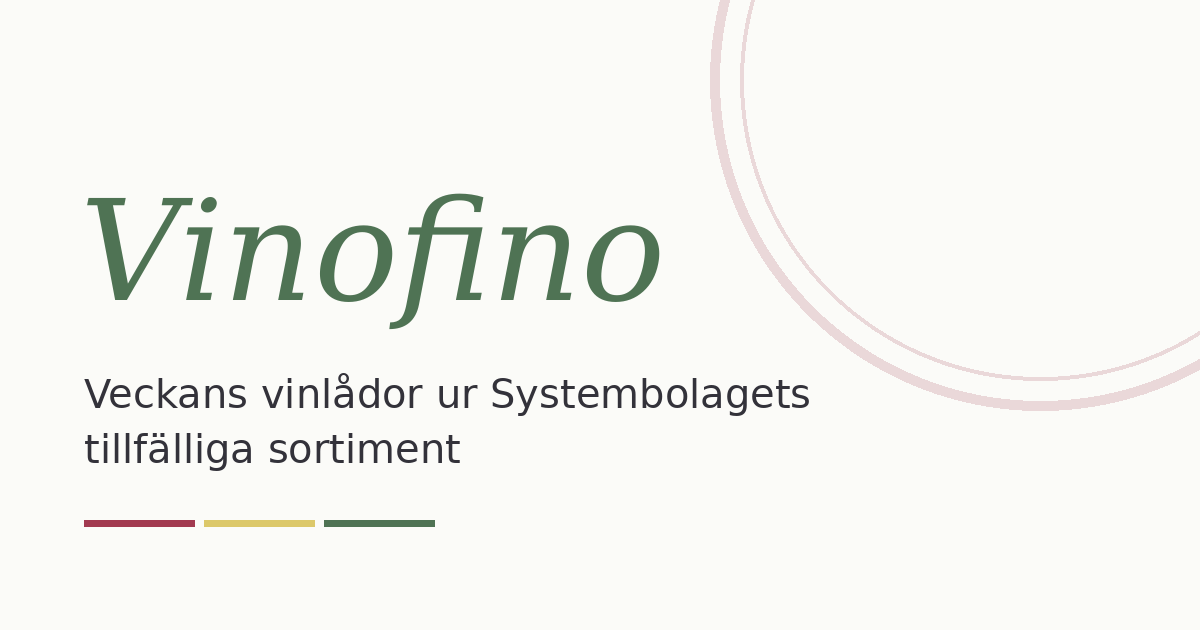
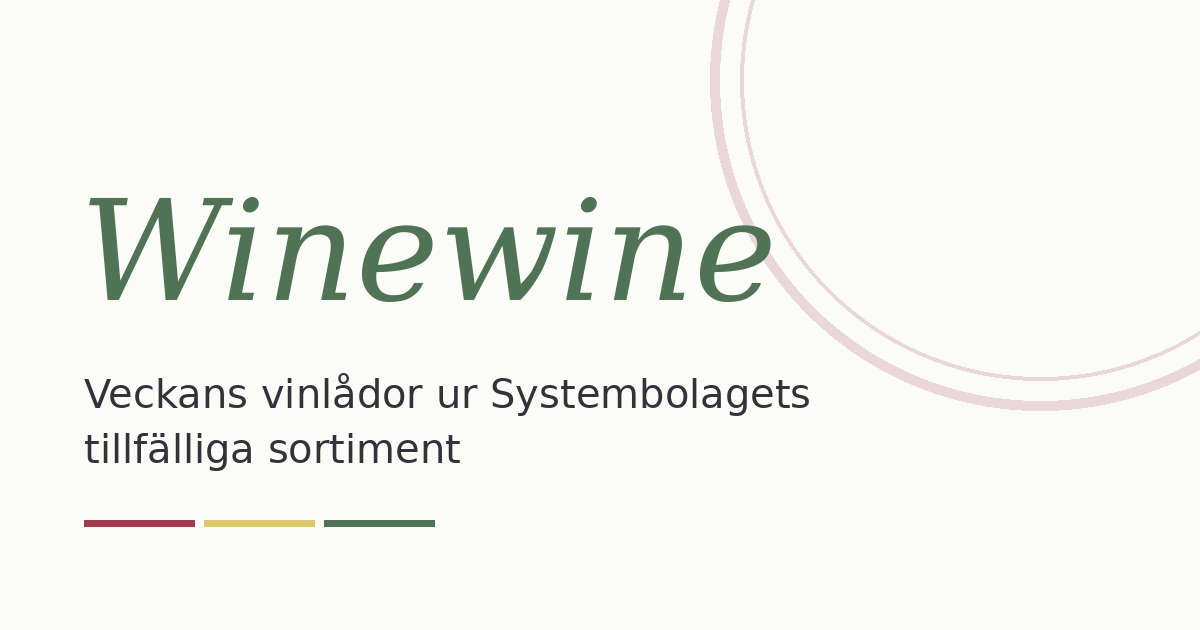
Byt namn på sidan från Vinofino till Winewine
Claude-Session: https://claude.ai/code/session_01NKdE4Aw4YJGkTNZaWQV7af

Changed region(s): [[0.0617, 0.3016, 0.6475, 0.5429]]

diff --git a/index.html b/index.html
@@ -3,12 +3,12 @@
 <head>
 <meta charset="utf-8">
 <meta name="viewport" content="width=device-width, initial-scale=1, viewport-fit=cover">
-<title>Vinofino – veckans vinlådor ur Systembolagets tillfälliga sortiment</title>
+<title>Winewine – veckans vinlådor ur Systembolagets tillfälliga sortiment</title>
 <meta name="description" content="Varje vecka: tre färdiga vinlådor och en helgflaska ur Systembolagets tillfälliga sortiment, med betyg, pris och artikelnummer.">
 <meta name="theme-color" content="#4F7354">
 <link rel="icon" href="favicon.svg" type="image/svg+xml">
 <meta property="og:type" content="website">
-<meta property="og:title" content="Vinofino – veckans vinlådor">
+<meta property="og:title" content="Winewine – veckans vinlådor">
 <meta property="og:description" content="Tre färdiga vinlådor och en helgflaska ur varje släpp i Systembolagets tillfälliga sortiment.">
 <meta property="og:image" content="og-image.png">
 <meta property="og:locale" content="sv_SE">
@@ -178,8 +178,8 @@ h1.date{font-family:var(--display);font-style:italic;font-weight:400;color:var(-
 
   <p class="note" id="footnote"></p>
   <footer class="sitefoot">
-    <p class="brand">Vinofino</p>
-    <p><strong>Vinofino är en privat, ideell hobbysida utan koppling till Systembolaget.</strong> Beställning, köp och utlämning sker hos Systembolaget, som inte står bakom något innehåll här.</p>
+    <p class="brand">Winewine</p>
+    <p><strong>Winewine är en privat, ideell hobbysida utan koppling till Systembolaget.</strong> Beställning, köp och utlämning sker hos Systembolaget, som inte står bakom något innehåll här.</p>
     <p>Sidan riktar sig till vuxna. Ålder för att handla på Systembolaget är 20 år. Läs mer om <a href="https://www.systembolaget.se/omtanke/" target="_blank" rel="noopener">alkohol och hälsa</a>.</p>
     <p>Vinbeskrivningarna är skrivna med egna ord. Sidan har inga annonser och inga affiliatelänkar.</p>
   </footer>

diff --git a/README.md b/README.md
@@ -1,4 +1,4 @@
-# Vinofino
+# Winewine
 
 Veckans vinlådor ur Systembolagets tillfälliga sortiment. Statisk sida som publiceras med GitHub Pages.
 
